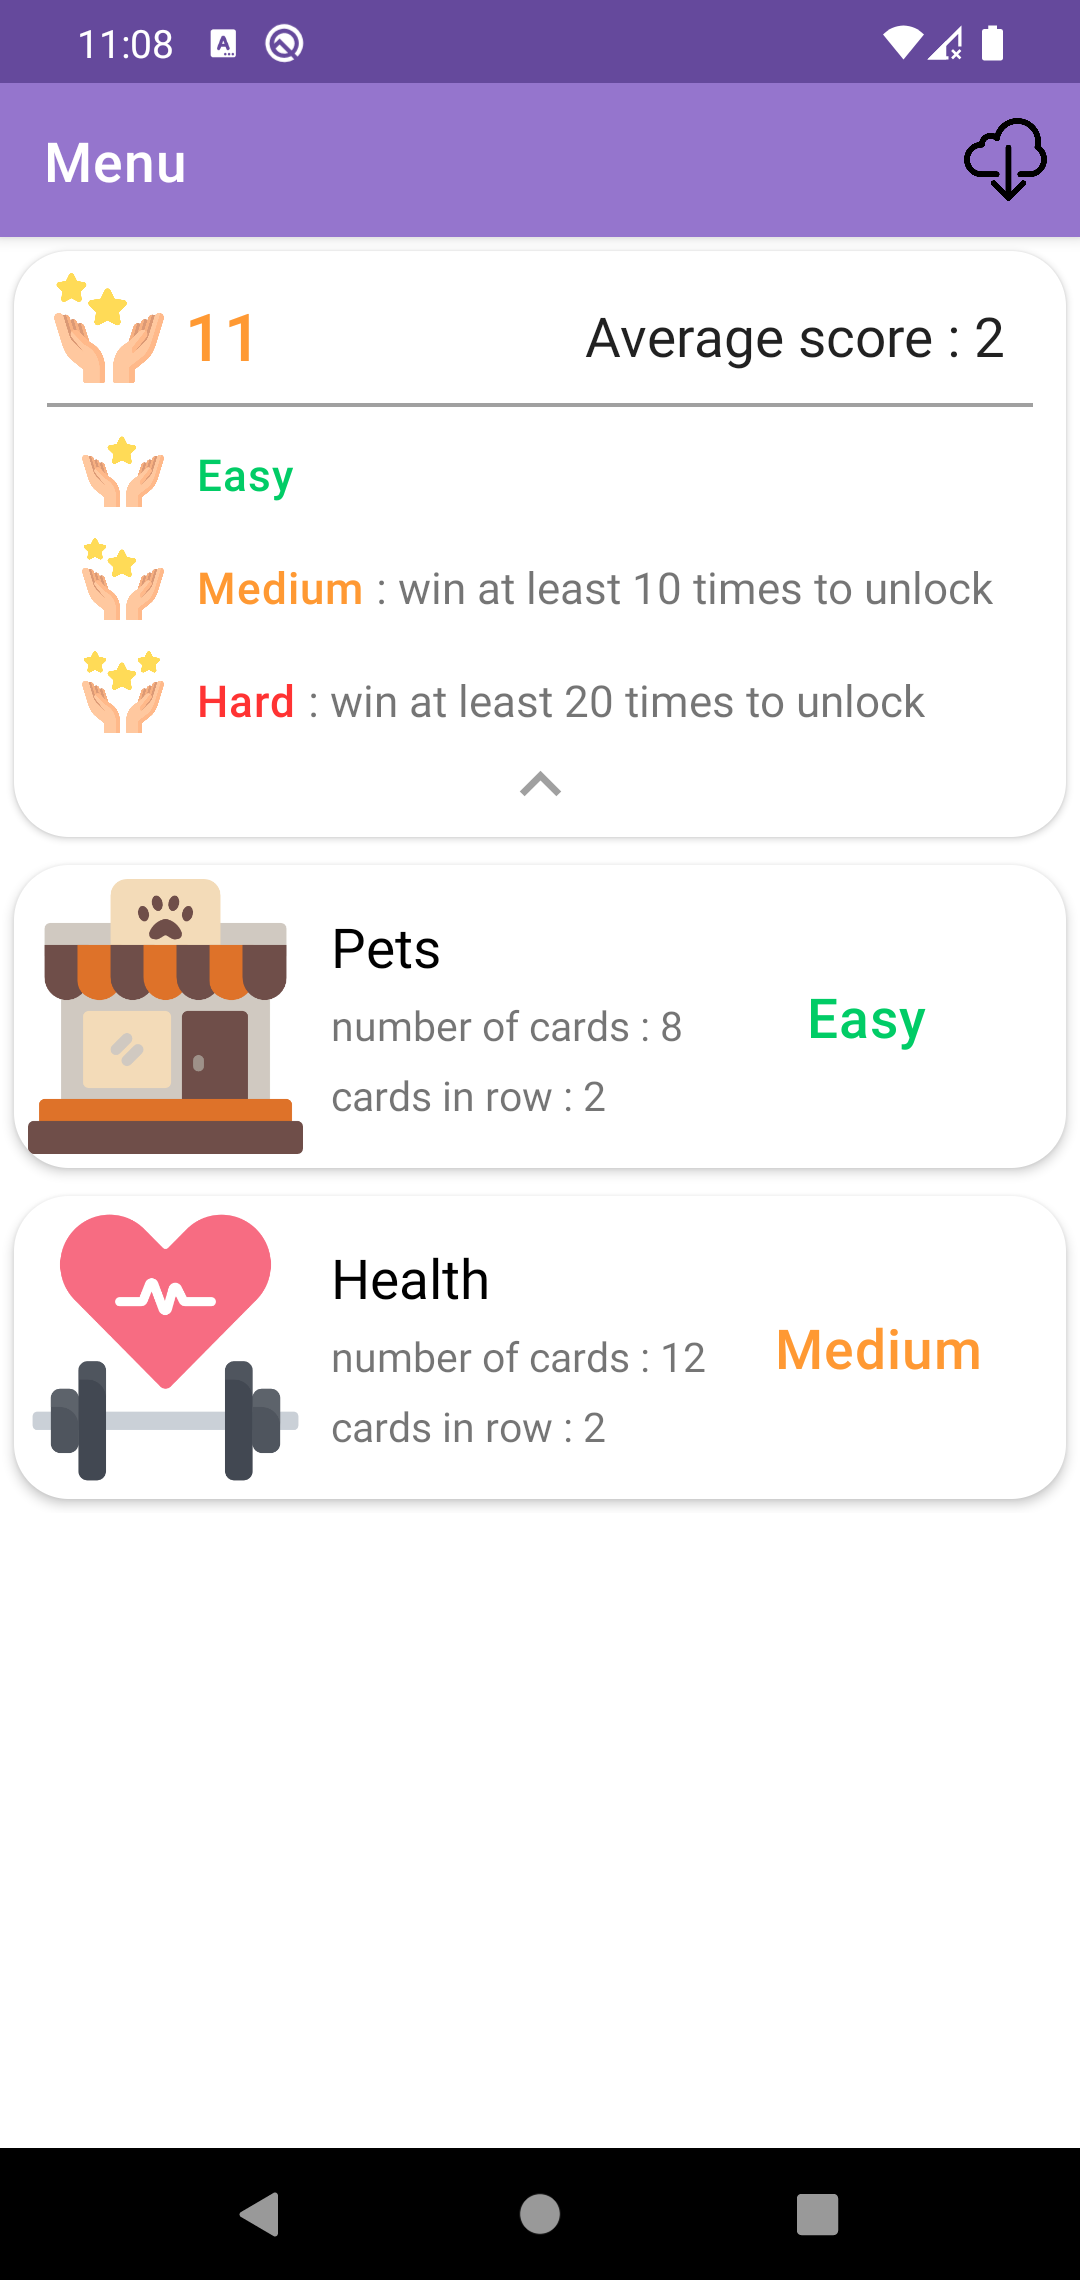
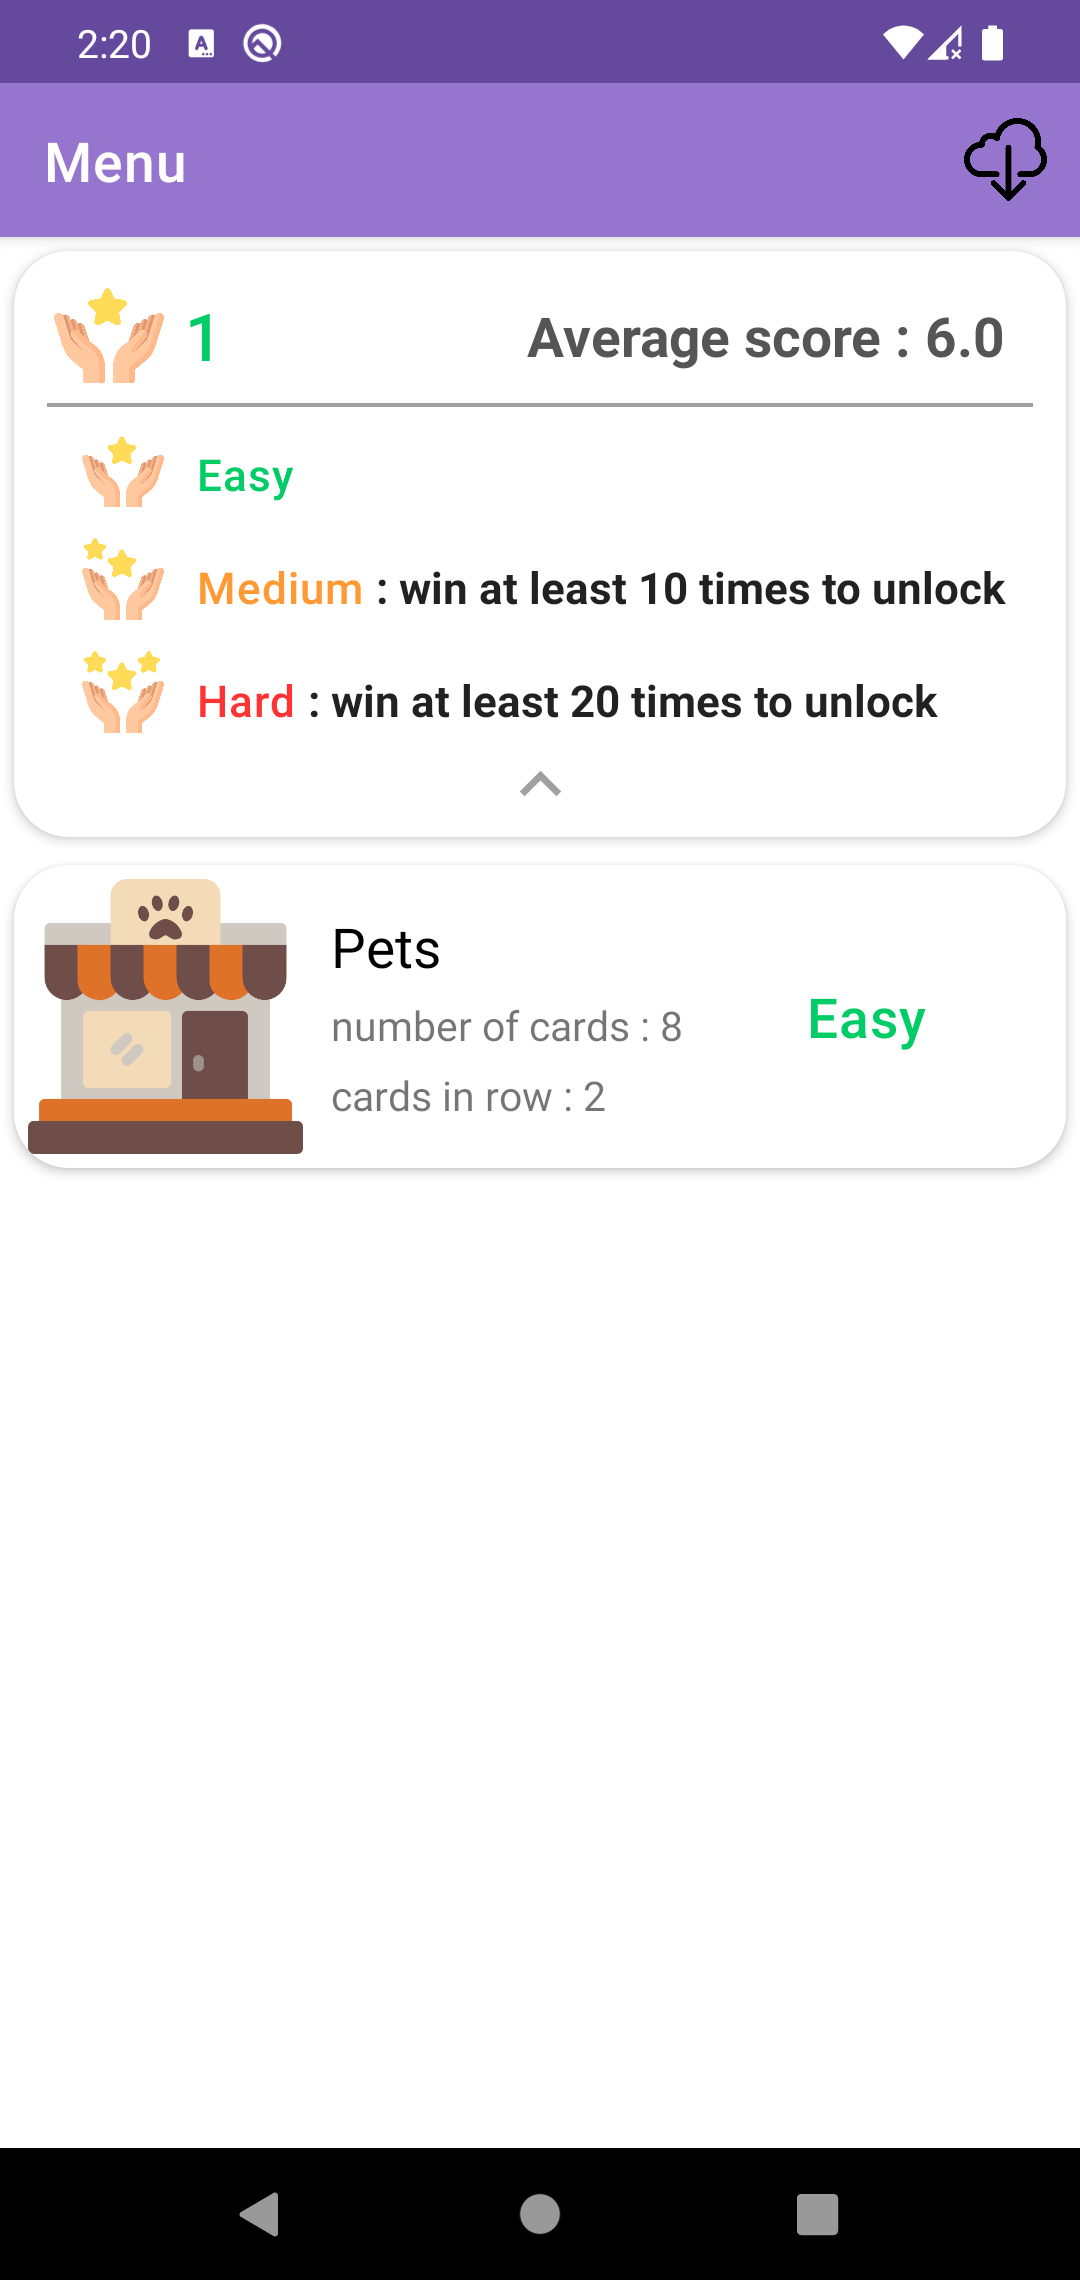
minor visual improvements, resource loading changes

diff --git a/app/src/main/java/com/example/memory_app/data/levels/resources/LevelsResourcesHolderImpl.kt b/app/src/main/java/com/example/memory_app/data/levels/resources/LevelsResourcesHolderImpl.kt
@@ -5,12 +5,17 @@ import android.content.Context
 import android.net.Uri
 import androidx.core.net.toUri
 import com.example.memory_app.R
+import com.google.android.gms.tasks.CancellationTokenSource
 import com.google.firebase.firestore.Source
 import com.google.firebase.firestore.ktx.firestore
 import com.google.firebase.ktx.Firebase
 import dagger.hilt.android.qualifiers.ApplicationContext
 import kotlinx.coroutines.flow.Flow
 import kotlinx.coroutines.flow.flow
+import kotlinx.coroutines.suspendCancellableCoroutine
+import kotlinx.coroutines.tasks.asDeferred
+import kotlinx.coroutines.tasks.await
+import java.lang.Exception
 import javax.inject.Inject
 import javax.inject.Singleton
 import kotlin.coroutines.resume
@@ -94,29 +99,31 @@ class LevelsResourcesHolderImpl @Inject constructor
         try { localResources.first { it.levelName == levelName} }
         catch (e : NoSuchElementException) { remoteResources.first { it.levelName == levelName} }
 
-
     override fun getAllLevelsResources(remote : Boolean) : Flow<List<Resources>> {
         if(!remote) return flow { emit(localResources) }
         return flow {
-            val result = suspendCoroutine { continuation ->
-                val resources = mutableListOf<Resources>()
-                Firebase.firestore.collection(COLLECTION_PATH).get(Source.SERVER)
-                    .addOnSuccessListener { documents -> documents.forEach { document ->
-                        resources.add(Resources(
-                            levelName = document.id,
-                            difficulty = document.getDouble(KEY_DIFFICULTY)!!.toInt(),
-                            cardImagesUris = (document.get(KEY_CARDS_URIS)
-                                    as List<String>).map { it.toUri() },
-                            faceOffImageUri = document.getString(KEY_FACE_OFF_URI)!!.toUri(),
-                            levelIconImageUri = document.getString(KEY_ICON_URI)!!.toUri() ))
-                        }
-                        remoteResources = resources.sortedBy { it.difficulty }
-                        continuation.resume(remoteResources)
-                    }
-                    .addOnFailureListener { continuation.resume(it) }
-            }
+            val resources = mutableListOf<Resources>()
+            var result : List<Resources>? = null
+            var exception : Exception? = null
 
-            if(result is Exception) throw result else emit(result as List<Resources>)
+            Firebase.firestore.collection(COLLECTION_PATH)
+                .get(Source.SERVER)
+                .addOnSuccessListener { documents -> documents.forEach { document ->
+                    resources.add(Resources(
+                        levelName = document.id,
+                        difficulty = document.getDouble(KEY_DIFFICULTY)!!.toInt(),
+                        cardImagesUris = (document.get(KEY_CARDS_URIS)
+                                as List<String>).map { it.toUri() },
+                        faceOffImageUri = document.getString(KEY_FACE_OFF_URI)!!.toUri(),
+                        levelIconImageUri = document.getString(KEY_ICON_URI)!!.toUri() ))
+                }
+                    result = resources.sortedBy { it.difficulty }
+                }
+                .addOnFailureListener { exception = it }
+                .await()
+
+            remoteResources = result ?: throw exception!!
+            emit(remoteResources)
         }
     }
 

diff --git a/app/src/main/java/com/example/memory_app/presentation/gamescreen/view/GameDialogFragment.kt b/app/src/main/java/com/example/memory_app/presentation/gamescreen/view/GameDialogFragment.kt
@@ -1,13 +1,20 @@
 package com.example.memory_app.presentation.gamescreen.view
 
-import android.app.AlertDialog
 import android.app.Dialog
+import android.graphics.Typeface
 import android.os.Bundle
+import android.view.Gravity
+import android.widget.LinearLayout
+import android.widget.TextView
+import androidx.core.widget.TextViewCompat
+import androidx.core.widget.TextViewCompat.setTextAppearance
 import androidx.fragment.app.DialogFragment
 import androidx.navigation.fragment.findNavController
 import androidx.navigation.fragment.navArgs
 import com.example.memory_app.R
+import com.google.android.material.dialog.MaterialAlertDialogBuilder
 import dagger.hilt.android.AndroidEntryPoint
+
 
 @AndroidEntryPoint
 class GameDialogFragment : DialogFragment() {
@@ -22,7 +29,7 @@ class GameDialogFragment : DialogFragment() {
 
         this.isCancelable = args.result == MENU_CLICKED
 
-        val dialog = AlertDialog.Builder(requireContext())
+        val dialog = MaterialAlertDialogBuilder(requireContext())
 
         when(args.result) {
             LOAD_FAIL -> dialog.setTitle(R.string.load_error_title)
@@ -35,9 +42,21 @@ class GameDialogFragment : DialogFragment() {
             LOSE_DIALOG -> dialog.setTitle(R.string.lose_title)
                 .setPositiveButton(R.string.lose_positive_text) { _, _ -> restartCurrentGame() }
 
-            else -> { dialog.setTitle(R.string.success_title)
-                .setIcon(R.drawable.ic_success1)
-                .setMessage(getString(R.string.result_score, args.result.toString()))
+            else -> {
+                val dialogTextLayout = LinearLayout(requireContext())
+                dialogTextLayout.orientation = LinearLayout.VERTICAL
+                val text_view = TextView(requireContext())
+                with(text_view){
+                    text = getString(R.string.result_score, args.result.toString())
+                    setPadding(0, 45, 0, 0)
+                    gravity = Gravity.CENTER_HORIZONTAL
+                    setTextAppearance(this, R.style.MaterialAlertDialog_App_Body_Text);
+                }
+                dialogTextLayout.addView(text_view)
+
+                dialog.setTitle(R.string.success_title)
+                .setIcon(R.drawable.ic_success0)
+                .setView(dialogTextLayout)
                 .setPositiveButton(R.string.success_positive_text) { _, _ -> restartCurrentGame() }
             }
         }

diff --git a/app/src/main/java/com/example/memory_app/presentation/menuscreen/viewmodel/MenuViewModel.kt b/app/src/main/java/com/example/memory_app/presentation/menuscreen/viewmodel/MenuViewModel.kt
@@ -6,6 +6,7 @@ import com.example.memory_app.domain.repository.Statistic
 import com.example.memory_app.domain.use_cases.LoadLevelsInfoUseCase
 import com.example.memory_app.domain.use_cases.LoadStatisticUseCase
 import dagger.hilt.android.lifecycle.HiltViewModel
+import kotlinx.coroutines.Dispatchers
 import kotlinx.coroutines.flow.*
 import kotlinx.coroutines.flow.SharingStarted.Companion.WhileSubscribed
 import kotlinx.coroutines.launch
@@ -42,5 +43,5 @@ class MenuViewModel @Inject constructor
         retry()
     }
 
-    fun retry() { stream = getLevelsStream().also { stream.cancel() } }
+    fun retry() { stream.cancel().also { stream = getLevelsStream() } }
 }

diff --git a/app/src/main/java/com/example/memory_app/presentation/menuscreen/view/adapters/StatisticListAdapter.kt b/app/src/main/java/com/example/memory_app/presentation/menuscreen/view/adapters/StatisticListAdapter.kt
@@ -22,7 +22,7 @@ class StatisticListAdapter() : ListAdapter<Statistic, StatisticListAdapter.Level
 
             val score = statistic.averageScore.value
             binding.averageScoreText.text = binding.root.context.resources
-                .getString(R.string.average_score, score.toInt().toString())
+                .getString(R.string.average_score, String.format("%.1f", score).replace(",", "."))
 
             val res : Pair<Int, Int>;
             with(binding.root.context) {

diff --git a/app/src/main/java/com/example/memory_app/domain/model/Game.kt b/app/src/main/java/com/example/memory_app/domain/model/Game.kt
@@ -13,6 +13,8 @@ class GameImpl(
     private val mismatchAllowed : Int
 ) : Game {
 
+    init { require(board.size % cardsInRow == 0) }
+
     private val previouslySelectedCardsPositions: MutableList<Int> = mutableListOf()
 
     private var mismatchesLeft = mismatchAllowed

diff --git a/app/src/main/java/com/example/memory_app/domain/model/Difficulty.kt b/app/src/main/java/com/example/memory_app/domain/model/Difficulty.kt
@@ -1,7 +1,7 @@
 package com.example.memory_app.domain.model
 
 enum class Difficulty(val NumberOfCards : Int, val cardsInRow : Int, val mismatchAllowed : Int){
-    EASY(8, 2, 6),
+    EASY(8, 2, 8),
     MEDIUM(12, 2, 12),
     HARD(15, 3, 15)
 }
